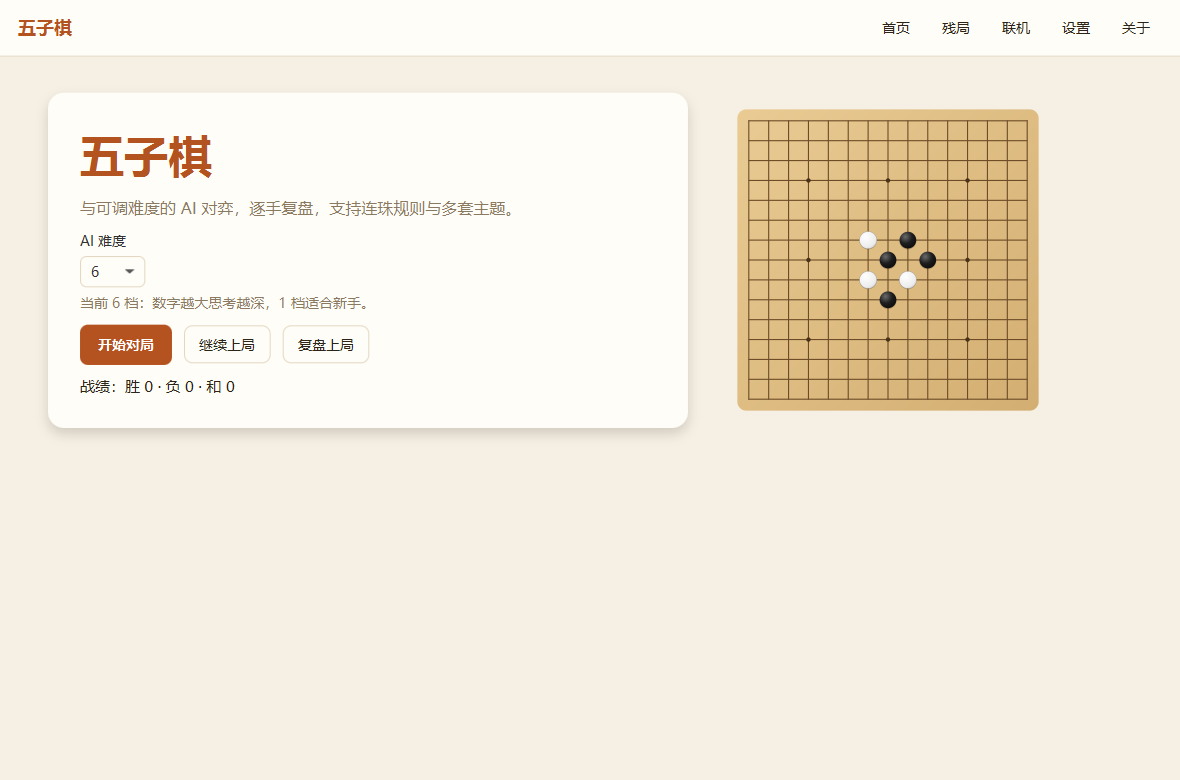
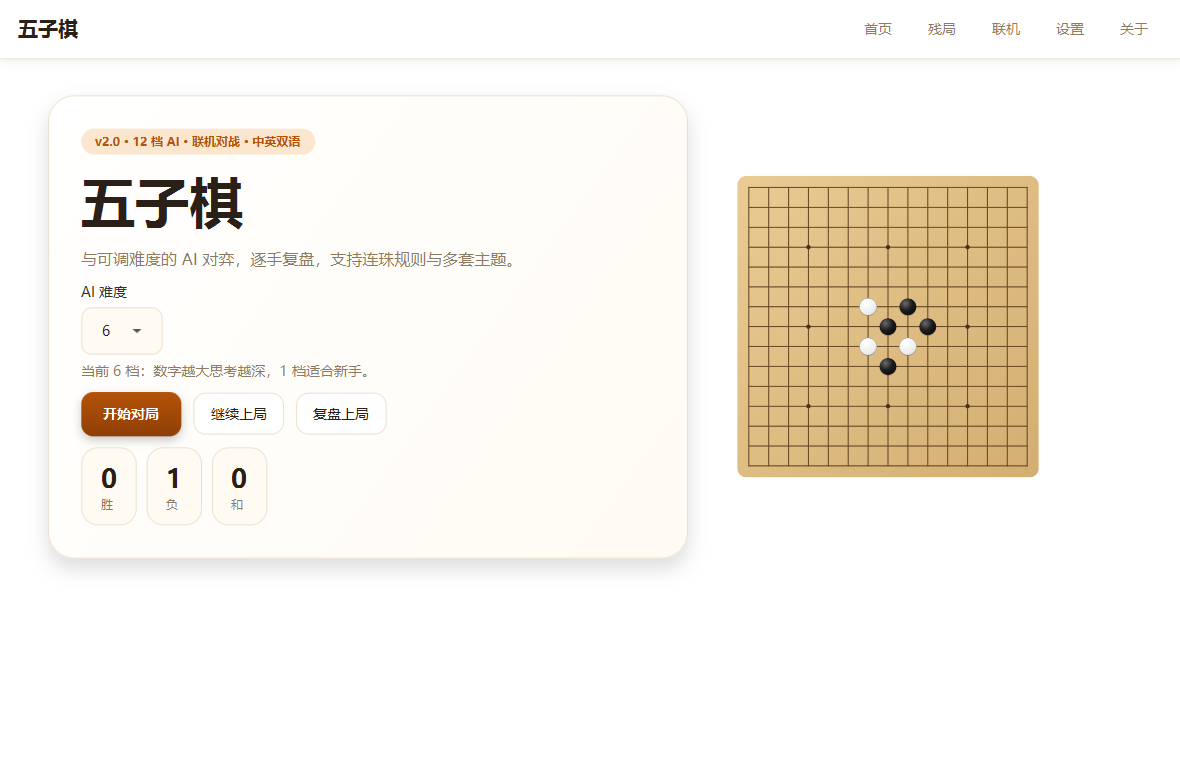
feat(ui): 重做视觉与修复复盘开局跳转
- 三套主题重新配色：渐变背景、卡片阴影、圆角、层级与留白
- 首页增加版本徽章与胜/负/和统计卡，按钮改为渐变主按钮
- 对局页侧栏分区（对局信息/操作/着法），窗口与安装包使用新图标
- 复盘「开局」改为跳到第 1 手，不再停在空盘

diff --git a/gomoku-desktop/src/main/resources/styles/base.css b/gomoku-desktop/src/main/resources/styles/base.css
@@ -1,168 +1,149 @@
 .root {
-    -fx-font-family: "Microsoft YaHei", "PingFang SC", "Noto Sans CJK SC", "Segoe UI", sans-serif;
+    -fx-font-family: "Microsoft YaHei UI", "PingFang SC", "Noto Sans CJK SC", "Segoe UI", sans-serif;
     -fx-font-size: 14px;
-    -fx-background-color: -g-bg;
+    -fx-background-color: linear-gradient(to bottom, -g-bg, -g-bg-2);
     -fx-text-fill: -g-text;
+    -fx-focus-color: -g-accent;
+    -fx-faint-focus-color: transparent;
 }
 
-.app-root {
-    -fx-background-color: -g-bg;
-}
+.app-root { -fx-background-color: transparent; }
 
+/* 顶栏 */
 .top-nav {
     -fx-background-color: -g-surface;
     -fx-border-color: transparent transparent -g-border transparent;
     -fx-border-width: 0 0 1 0;
+    -fx-effect: dropshadow(gaussian, rgba(0, 0, 0, 0.06), 14, 0.10, 0, 2);
 }
-
-.brand {
-    -fx-font-size: 18px;
-    -fx-font-weight: bold;
-    -fx-text-fill: -g-accent;
-}
-
+.brand { -fx-font-size: 20px; -fx-font-weight: 800; -fx-text-fill: -g-text; }
 .nav-button {
     -fx-background-color: transparent;
-    -fx-text-fill: -g-text;
-    -fx-cursor: hand;
-    -fx-padding: 6 12;
-    -fx-background-radius: 6;
-}
-
-.nav-button:hover {
-    -fx-background-color: -g-hover;
-}
-
-.page-title {
-    -fx-font-size: 28px;
-    -fx-font-weight: bold;
-    -fx-text-fill: -g-text;
-}
-
-.page-subtitle, .hint {
     -fx-text-fill: -g-muted;
+    -fx-font-weight: 600;
+    -fx-background-radius: 999;
+    -fx-padding: 7 14;
 }
+.nav-button:hover { -fx-background-color: -g-hover; -fx-text-fill: -g-text; }
+
+/* 页面骨架 */
+.page-title { -fx-font-size: 30px; -fx-font-weight: 800; -fx-text-fill: -g-text; }
+.page-subtitle, .hint { -fx-text-fill: -g-muted; }
+.field-label { -fx-font-weight: 700; -fx-text-fill: -g-text; }
 
 .hero-card, .settings-card {
-    -fx-background-color: -g-surface;
-    -fx-background-radius: 16;
-    -fx-effect: dropshadow(gaussian, rgba(0, 0, 0, 0.12), 18, 0.2, 0, 6);
+    -fx-background-color: linear-gradient(to bottom right, -g-surface, -g-surface-2);
+    -fx-background-radius: 26;
+    -fx-border-color: -g-border;
+    -fx-border-radius: 26;
+    -fx-effect: dropshadow(gaussian, rgba(0, 0, 0, 0.12), 30, 0.12, 0, 10);
 }
-
-.hero-title {
-    -fx-font-size: 44px;
-    -fx-font-weight: bold;
+.hero-title { -fx-font-size: 54px; -fx-font-weight: 900; -fx-text-fill: -g-text; }
+.hero-subtitle { -fx-font-size: 16px; -fx-text-fill: -g-muted; }
+.badge {
+    -fx-background-color: -g-accent-soft;
     -fx-text-fill: -g-accent;
+    -fx-background-radius: 999;
+    -fx-padding: 5 14;
+    -fx-font-size: 12px;
+    -fx-font-weight: 700;
 }
-
-.hero-subtitle {
-    -fx-font-size: 16px;
-    -fx-text-fill: -g-muted;
+.stat-card {
+    -fx-background-color: -g-surface-2;
+    -fx-background-radius: 16;
+    -fx-border-color: -g-border;
+    -fx-border-radius: 16;
+    -fx-padding: 12 18;
 }
+.stat-value { -fx-font-size: 26px; -fx-font-weight: 800; -fx-text-fill: -g-text; }
+.stat-label { -fx-text-fill: -g-muted; -fx-font-size: 12px; }
+.stats-line { -fx-text-fill: -g-muted; }
 
-.stats-line {
-    -fx-font-size: 15px;
-    -fx-text-fill: -g-text;
-}
-
-.field-label {
-    -fx-font-weight: bold;
-    -fx-text-fill: -g-text;
-}
-
+/* 按钮 */
 .primary-button {
-    -fx-background-color: -g-accent;
+    -fx-background-color: linear-gradient(to bottom, -g-accent, -g-accent-hover);
     -fx-text-fill: white;
-    -fx-background-radius: 8;
-    -fx-padding: 10 18;
-    -fx-font-weight: bold;
+    -fx-background-radius: 12;
+    -fx-padding: 12 22;
+    -fx-font-weight: 700;
     -fx-cursor: hand;
+    -fx-effect: dropshadow(gaussian, rgba(0, 0, 0, 0.18), 14, 0.15, 0, 4);
 }
-
-.primary-button:hover {
-    -fx-background-color: -g-accent-hover;
-}
-
+.primary-button:hover { -fx-background-color: linear-gradient(to bottom, -g-accent-hover, -g-accent); }
+.primary-button:pressed { -fx-effect: none; }
 .secondary-button {
     -fx-background-color: -g-surface;
     -fx-text-fill: -g-text;
     -fx-border-color: -g-border;
-    -fx-border-radius: 8;
-    -fx-background-radius: 8;
-    -fx-padding: 8 14;
+    -fx-border-radius: 12;
+    -fx-background-radius: 12;
+    -fx-padding: 10 16;
+    -fx-font-weight: 600;
     -fx-cursor: hand;
 }
+.secondary-button:hover { -fx-background-color: -g-hover; -fx-border-color: -g-accent; }
+.secondary-button:disabled { -fx-opacity: 0.45; }
 
-.secondary-button:hover {
-    -fx-background-color: -g-hover;
-}
-
-.secondary-button:disabled {
-    -fx-opacity: 0.45;
-}
-
+/* 对局 */
 .board-area {
-    -fx-background-color: -g-board-bg;
+    -fx-background-color: linear-gradient(to bottom right, -g-board-bg, -g-board-bg-2);
+    -fx-background-radius: 24;
 }
-
 .side-panel {
     -fx-background-color: -g-surface;
     -fx-border-color: transparent transparent transparent -g-border;
     -fx-border-width: 0 0 0 1;
 }
+.turn-label { -fx-font-size: 22px; -fx-font-weight: 800; -fx-text-fill: -g-accent; }
+.result-overlay { -fx-background-color: rgba(0, 0, 0, 0.38); -fx-background-radius: 24; }
+.result-title { -fx-font-size: 36px; -fx-font-weight: 900; -fx-text-fill: white; }
 
-.turn-label {
-    -fx-font-size: 20px;
-    -fx-font-weight: bold;
-    -fx-text-fill: -g-accent;
-}
-
-.result-overlay {
-    -fx-background-color: rgba(0, 0, 0, 0.35);
-}
-
-.result-title {
-    -fx-font-size: 34px;
-    -fx-font-weight: bold;
-    -fx-text-fill: white;
-}
-
-.review-bar {
-    -fx-alignment: center-left;
-}
-
+/* 列表 */
 .list-view {
     -fx-background-color: transparent;
     -fx-control-inner-background: -g-surface;
-    -fx-text-fill: -g-text;
-}
-
-.combo-box {
-    -fx-background-color: -g-surface;
+    -fx-background-radius: 12;
     -fx-border-color: -g-border;
-    -fx-border-radius: 6;
-    -fx-background-radius: 6;
+    -fx-border-radius: 12;
+    -fx-padding: 4;
 }
-
-.check-box {
-    -fx-text-fill: -g-text;
-}
-
 .list-view .list-cell {
     -fx-background-color: transparent;
     -fx-text-fill: -g-text;
-    -fx-padding: 4 8;
+    -fx-padding: 7 10;
+    -fx-background-radius: 8;
 }
+.list-view .list-cell:filled:hover { -fx-background-color: -g-hover; }
+.list-view .list-cell:filled:selected { -fx-background-color: -g-accent; -fx-text-fill: white; }
+.list-view .list-cell:empty { -fx-background-color: transparent; }
 
-.list-view .list-cell:filled:hover {
-    -fx-background-color: -g-hover;
+/* 表单 */
+.text-field, .password-field, .text-area, .combo-box {
+    -fx-background-color: -g-surface-2;
+    -fx-border-color: -g-border;
+    -fx-border-radius: 10;
+    -fx-background-radius: 10;
+    -fx-padding: 8 10;
+    -fx-text-fill: -g-text;
 }
+.text-field:focused, .password-field:focused, .text-area:focused, .combo-box:focused {
+    -fx-border-color: -g-accent;
+    -fx-effect: dropshadow(gaussian, -g-accent-soft, 10, 0.35, 0, 0);
+}
+.combo-box .list-cell { -fx-background-color: transparent; -fx-text-fill: -g-text; }
+.check-box { -fx-text-fill: -g-text; }
 
-.list-view .list-cell:filled:selected {
-    -fx-background-color: -g-accent;
-    -fx-text-fill: white;
-}
+/* 滑块与滚动条 */
+.slider .track { -fx-background-color: -g-border; -fx-background-radius: 4; }
+.slider .thumb { -fx-background-color: -g-accent; -fx-background-radius: 999; }
+.scroll-bar { -fx-background-color: transparent; }
+.scroll-bar .thumb { -fx-background-color: -g-border; -fx-background-radius: 6; }
+.scroll-bar .track { -fx-background-color: transparent; }
 
-.list-view .list-cell:empty {
-    -fx-background-color: transparent;
+.section-title {
+    -fx-font-size: 12px;
+    -fx-font-weight: 700;
+    -fx-text-fill: -g-muted;
+    -fx-padding: 2 0 0 0;
 }
+.separator .line { -fx-border-color: -g-border transparent transparent transparent; }

diff --git a/gomoku-desktop/src/main/resources/styles/dark.css b/gomoku-desktop/src/main/resources/styles/dark.css
@@ -1,11 +1,15 @@
 .root {
-    -g-bg: #14161A;
-    -g-surface: #1D2026;
-    -g-text: #E8EAF0;
-    -g-muted: #9AA3B2;
-    -g-accent: #4C8DFF;
-    -g-accent-hover: #3B78E0;
-    -g-border: #2C313A;
-    -g-hover: #262B33;
-    -g-board-bg: #101216;
+    -g-bg: #0F1115;
+    -g-bg-2: #0A0C10;
+    -g-surface: #181B21;
+    -g-surface-2: #1F232B;
+    -g-text: #E9ECF2;
+    -g-muted: #98A2B3;
+    -g-accent: #6EA8FE;
+    -g-accent-hover: #4C8DFF;
+    -g-accent-soft: #1D2A44;
+    -g-border: #2A2F39;
+    -g-hover: #232833;
+    -g-board-bg: #151922;
+    -g-board-bg-2: #10131A;
 }

diff --git a/gomoku-desktop/src/main/resources/styles/jade.css b/gomoku-desktop/src/main/resources/styles/jade.css
@@ -1,11 +1,15 @@
 .root {
-    -g-bg: #EFF5F1;
-    -g-surface: #FAFFFC;
-    -g-text: #17332A;
-    -g-muted: #6B8A7C;
-    -g-accent: #1E7D5A;
-    -g-accent-hover: #176247;
-    -g-border: #CFE3D8;
-    -g-hover: #E2EFE8;
-    -g-board-bg: #DDEBE3;
+    -g-bg: #EEF6F1;
+    -g-bg-2: #E2EFE7;
+    -g-surface: #FFFFFF;
+    -g-surface-2: #F6FCF9;
+    -g-text: #14332A;
+    -g-muted: #67857A;
+    -g-accent: #0F7A5A;
+    -g-accent-hover: #0B5F46;
+    -g-accent-soft: #DCF2E8;
+    -g-border: #D3E6DC;
+    -g-hover: #E4F1EA;
+    -g-board-bg: #E1EFE6;
+    -g-board-bg-2: #D2E4D8;
 }

diff --git a/gomoku-desktop/src/main/resources/styles/wood.css b/gomoku-desktop/src/main/resources/styles/wood.css
@@ -1,11 +1,15 @@
 .root {
-    -g-bg: #F6EFE3;
-    -g-surface: #FFFDF8;
-    -g-text: #2E2419;
-    -g-muted: #8A7A63;
-    -g-accent: #B4531F;
-    -g-accent-hover: #8F3F12;
-    -g-border: #E3D6C0;
-    -g-hover: #F0E4D2;
-    -g-board-bg: #EFE3CC;
+    -g-bg: #F7F1E6;
+    -g-bg-2: #EFE6D6;
+    -g-surface: #FFFFFF;
+    -g-surface-2: #FFFBF3;
+    -g-text: #2B2118;
+    -g-muted: #8B7B66;
+    -g-accent: #B45309;
+    -g-accent-hover: #8F3E06;
+    -g-accent-soft: #FBE7CF;
+    -g-border: #EADFCF;
+    -g-hover: #F3E9DA;
+    -g-board-bg: #EFE2CB;
+    -g-board-bg-2: #E4D3B5;
 }

diff --git a/gomoku-desktop/src/main/java/io/github/lizhongv/gomoku/desktop/HomeView.java b/gomoku-desktop/src/main/java/io/github/lizhongv/gomoku/desktop/HomeView.java
@@ -67,9 +67,14 @@ public final class HomeView extends VBox {
     HBox actions = new HBox(12, start, resume, review);
     actions.setAlignment(Pos.CENTER_LEFT);
 
-    Label stats =
-        new Label(i18n.t("home.stats", context.wins(), context.losses(), context.draws()));
-    stats.getStyleClass().add("stats-line");
+    Label badge = new Label(i18n.t("home.badge"));
+    badge.getStyleClass().add("badge");
+    HBox stats =
+        new HBox(
+            10,
+            statCard(i18n.t("home.wins"), context.wins()),
+            statCard(i18n.t("home.losses"), context.losses()),
+            statCard(i18n.t("home.draws"), context.draws()));
 
     Region spacer = new Region();
     VBox.setVgrow(spacer, Priority.ALWAYS);
@@ -77,7 +82,7 @@ public final class HomeView extends VBox {
     VBox levelRow = new VBox(6, new Label(i18n.t("home.level")), levels, levelHint);
     levelRow.getStyleClass().add("field-group");
 
-    VBox hero = new VBox(12, title, subtitle, levelRow, actions, stats);
+    VBox hero = new VBox(12, badge, title, subtitle, levelRow, actions, stats);
     hero.getStyleClass().add("hero-card");
     hero.setPadding(new Insets(32));
     hero.setMaxWidth(640);
@@ -102,5 +107,16 @@ public final class HomeView extends VBox {
     HBox.setHgrow(hero, Priority.ALWAYS);
 
     getChildren().addAll(body, spacer);
+  }
+
+  private VBox statCard(String label, int value) {
+    Label number = new Label(String.valueOf(value));
+    number.getStyleClass().add("stat-value");
+    Label caption = new Label(label);
+    caption.getStyleClass().add("stat-label");
+    VBox card = new VBox(2, number, caption);
+    card.getStyleClass().add("stat-card");
+    card.setAlignment(Pos.CENTER_LEFT);
+    return card;
   }
 }

diff --git a/gomoku-desktop/src/main/java/io/github/lizhongv/gomoku/desktop/ReviewView.java b/gomoku-desktop/src/main/java/io/github/lizhongv/gomoku/desktop/ReviewView.java
@@ -54,7 +54,9 @@ public final class ReviewView extends BorderPane {
         .valueProperty()
         .addListener((observable, oldValue, newValue) -> show(newValue.intValue()));
 
-    Button first = navButton("review.first", 0);
+    Button first = new Button(i18n.t("review.first"));
+    first.getStyleClass().add("secondary-button");
+    first.setOnAction(event -> slider.setValue(moves.isEmpty() ? 0 : 1));
     Button previous = navButton("review.previous", -1);
     Button next = navButton("review.next", 1);
     Button last = navButton("review.last", moves.size());
